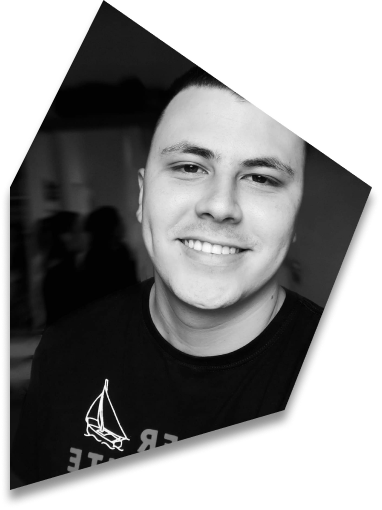
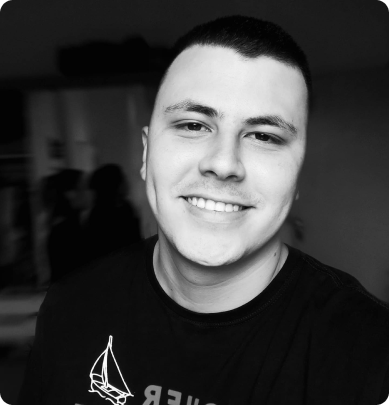
1#commit

diff --git a/style/main.css b/style/main.css
@@ -7,8 +7,10 @@
 
 body{
     width: 100%;
-    height: 100%;
-    scroll-behavior:smooth;
+}
+html{
+    scroll-behavior: smooth;
+    height: 100%;  
 }
 
 .topo{
@@ -19,6 +21,7 @@ body{
     width: 100%;
     height: 100vh;
     background: var(--topo-bg);
+    
 }
 
 .topo .top-text{
@@ -52,12 +55,11 @@ body{
 
 .menu{
     width: 100%;
-    height: 50px;
+    height: 80px;
     display: flex;
     align-items: center;
-    position: sticky;
     background-color: var(--menu-bg);
-    border-bottom: 2px solid #04b0c7;
+    border-bottom: 4px solid #04b0c7;
 }
 
 .menu .menu-links{
@@ -76,7 +78,7 @@ body{
     color: #04b0c7;
 }
 
-/* fim menu */
+/* ------------------fim menu------------------ */
 
 .sobre{
     width: 100%;
@@ -84,8 +86,183 @@ body{
 
 .sobre .sobre-container{
     padding: 0 20%;
+    margin-top: 200px;
+    margin-bottom: 400px;
 }
 
 .sobre .sobre-container .sobre-title{
     font-size: var(--font-size-title);
+    font-family: var(--font-family-text);
+    display: flex;
+    flex-direction: column;
+    align-items: center;
+    justify-content: center;
+    letter-spacing: 2px;
+}
+
+.sobre .sobre-container .sobre-title .line{
+    width: 100px;
+    height: 7px;
+    background-color: #04b0c7;
+    margin-top: 20px;
+}
+
+.sobre .sobre-container .sobre-content{
+    margin-top: 200px;
+    width: 100%;
+    height: 500px;
+    display: flex;
+    align-items: flex-start;
+    justify-content: space-around;
+}
+
+.sobre .sobre-container .sobre-content .sobre-img img{
+    width: 400px;
+}
+
+.sobre .sobre-container .sobre-content .sobre-text{
+    width: 600px;
+    font-size: var(--font-size-p);
+    font-family: var(--font-family-text);
+    color: rgb(43, 43, 43);
+    font-weight: 500;
+    text-align: justify;
+}  
+
+.sobre .sobre-container .sobre-content .sobre-text h4{
+    padding-bottom: 10px;
+    width: 40%;
+    border-bottom: 4px solid #000000;
+}
+
+.sobre .sobre-container .sobre-content .sobre-text div{
+    margin: 40px 0;
+}
+
+.sobre .sobre-container .sobre-content .sobre-text .conhecimento{
+    display: flex;
+    flex-wrap: wrap;
+}
+
+.sobre .sobre-container .sobre-content .sobre-text .conhecimento .icon-box{
+    margin:  20px;
+    display: flex;
+    flex-direction: column;
+    align-items: center;
+    
+}
+
+/* ------------------fim sobre------------------ */
+
+
+.portifolio{
+    width: 100%;
+    height: 100%;
+    background-color:var(--portifolio-bg);
+}
+.portifolio .portifolio-container{
+    padding: 0 20%;
+    padding-top: 200px;
+   
+}
+
+.portifolio .portifolio-container .portifolio-title{
+    font-size: var(--font-size-title);
+    font-family: var(--font-family-text);
+    display: flex;
+    flex-direction: column;
+    align-items: center;
+    justify-content: center;
+    letter-spacing: 2px;
+}
+
+.portifolio .portifolio-container .portifolio-title .line{
+    width: 100px;
+    height: 8px;
+    background-color: #04b0c7;
+    margin-top: 20px;
+}
+
+.portifolio .portifolio-container .portifolio-content{
+    margin-top: 200px;
+    width: 100%;
+    height: 500px;
+}
+
+/* ------------------fim portifólio------------------ */
+
+.contato{
+    width: 100%;
+    height: 100%;
+    background-color: var(--contato-bg);
+}
+
+.contato .contato-container{
+    padding: 0 20%;
+    padding-top: 200px;
+}
+
+.contato .contato-container .contato-title{
+    font-size: var(--font-size-title);
+    font-family: var(--font-family-text);
+    color: #fff;
+    display: flex;
+    flex-direction: column;
+    align-items: center;
+    justify-content: center;
+    letter-spacing: 2px;
+}
+
+.contato .contato-container .contato-title .line{
+    width: 100px;
+    height: 8px;
+    background-color: #04b0c7;
+    margin-top: 20px;
+}
+
+.contato .contato-container .contato-content{
+    margin-top: 50px;
+    display: flex;
+    flex-direction: column;
+    align-items: center;
+}
+
+.contato .contato-container .contato-content input{
+    width: 500px;
+    padding: 15px;
+    margin:10px;
+    background-color: rgb(34, 34, 34);
+    border: none;
+    color: #fff;
+    font-family: var(--font-family-text);
+}
+.contato .contato-container .contato-content textarea{
+    resize: none;
+    width: 500px;
+    padding: 10px;
+    background-color: rgb(34, 34, 34);
+    border: none;
+    color: #fff;
+    font-family: var(--font-family-text);
+    
+}
+.contato .contato-container .contato-content .btn-form{
+    padding: 10px 100px;
+    margin: 20px;
+    background-color: transparent;
+    border: 1px solid #ffffff;
+    color:rgb(255, 255, 255);
+    font-family: var(--font-family-text);
+    cursor: pointer;
+    font-size: 18px;
+    transition: all .3s;
+   
+}
+.contato .contato-container .contato-content .btn-form:hover{
+    background-color: #01899b;
+    border: 1px solid #13fdf1;
+}
+
+.contato .contato-container .contato-content .btn-form:focus{
+    outline: none;
 }

diff --git a/index.html b/index.html
@@ -10,8 +10,8 @@
     <!-- fonts -->
     <link rel="preconnect" href="https://fonts.gstatic.com">
     <link href="https://fonts.googleapis.com/css2?family=Archivo:wght@400;500&family=Courier+Prime&display=swap" rel="stylesheet">
-
-
+    <!-- font awesome -->
+    <script src="https://kit.fontawesome.com/b1bd5223f4.js" crossorigin="anonymous"></script>
 </head>
 <body>
     <header class="topo" id="topo">
@@ -38,6 +38,65 @@
         <div class="sobre-container">
             <div class="sobre-title">
                 <h4>SOBRE</h4>
+                <div class="line"></div>
+            </div>
+            <div class="sobre-content">
+                <div class="sobre-img">
+                     <img src="./src/img-foto.png" alt="foto perfil" draggable="false">
+                </div>
+                <div class="sobre-text">
+                    <div>
+                        <p>
+                            Meu nome é Leonardo Kobylinski, sou Desenvolvedor Front-End. Formado em Análise e Desenvolvimento de Sistemas, pela Universidade Estácio de Sá. Boa parte do meu tempo, dedico a aperfeiçoar meus conhecimentos, para que eu possa desenvolver meus projetos com tudo que há de mais novo no mercado.
+                        </p>
+                    </div>
+                    <div>
+                        <h4>conhecimentos:</h4>
+                    </div>
+                    <div class="conhecimento">
+                        <div class="icon-box">
+                            <i class="fab fa-html5 fa-3x"></i>
+                            <p>HTML</p>
+                        </div>
+                        <div class="icon-box">
+                            <i class="fab fa-css3-alt fa-3x"></i>
+                            <p>CSS</p>
+                        </div>
+                        <div class="icon-box">
+                            <i class="fab fa-js fa-3x"></i>
+                            <p>JavaScript</p>
+                        </div>
+                        <div class="icon-box">
+                            <i class="fab fa-react fa-3x"></i>
+                            <p>REACT</p>
+                        </div>
+                    </div>
+                </div>
+            </div>
+        </div><!--end container-->
+    </div><!--end sobre-->
+    <div class="portifolio" id="portifolio">
+        <div class="portifolio-container">
+            <div class="portifolio-title">
+                <h4>Projetos</h4>
+                <div class="line"></div>
+            </div>
+            <div class="portifolio-content">
+                <p style="font-size:20px">Não há projetos no momento..</p>
+            </div>
+        </div>
+    </div><!--end portifolio-->
+    <div class="contato" id="contato">
+        <div class="contato-container">
+            <div class="contato-title">
+                <h4>Contato</h4>
+                <div class="line"></div>
+            </div>
+            <div class="contato-content">
+                <input type="text" name="nome" id="nome" placeholder="Nome" required>
+                <input type="email" name="nome" id="nome" placeholder="Email" required>
+                <textarea name="mensagem" id="mensagem" cols="30" rows="10"></textarea>
+                <button type="submit" class="btn-form">Enviar</button>
             </div>
         </div>
     </div>

diff --git a/style/root.css b/style/root.css
@@ -1,8 +1,8 @@
 :root{
     --font-size-h1:1.5rem;
-    --font-size-title:2rem;
+    --font-size-title:2.5rem;
     --font-size-subtitle:1.1rem;
-    --font-size-p:1rem;
+    --font-size-p:2rem;
     --font-size-menu:1rem;
 
     --font-family-h1:'Courier Prime', monospace;
@@ -15,4 +15,6 @@
 
     --topo-bg:linear-gradient(140deg, #13475e 0%, #000000 100%, #052838 100%);
     --menu-bg:#1f1f1f;
+    --portifolio-bg: #ececec;
+    --contato-bg:#2E2E2E;
 }
